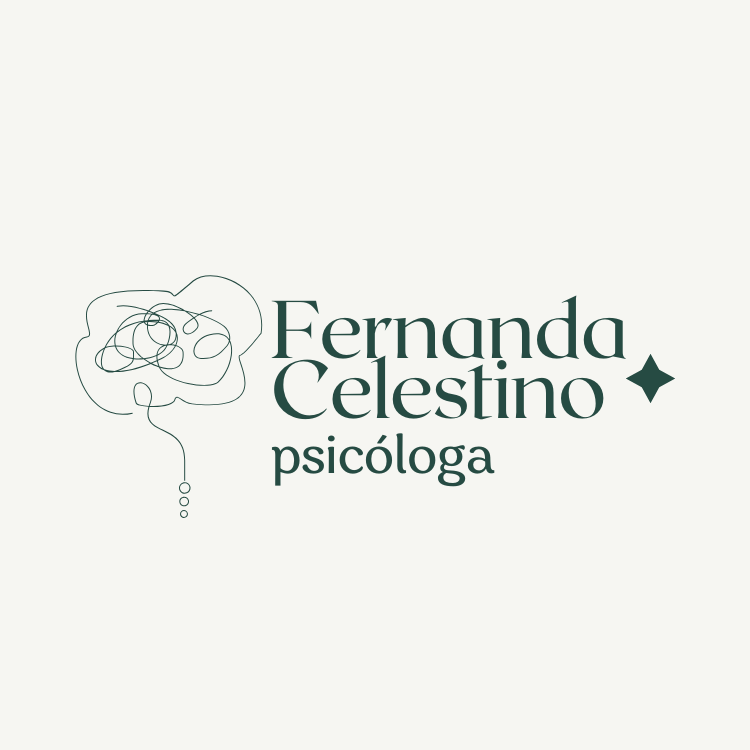
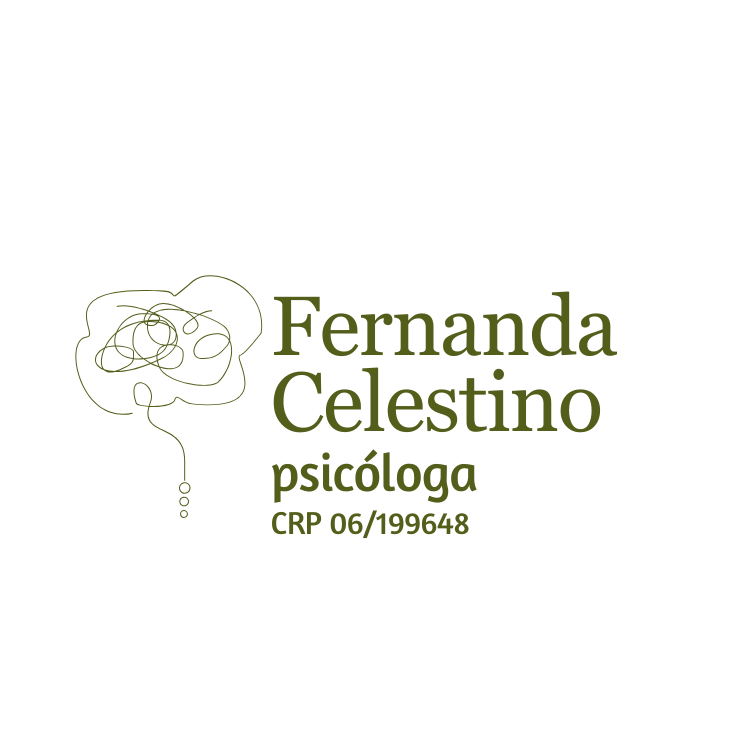
Adiciona seção Instagram e opção no menu para redes sociais

diff --git a/index.html b/index.html
@@ -9,6 +9,7 @@
   <link rel="stylesheet" href="https://cdnjs.cloudflare.com/ajax/libs/font-awesome/6.0.0-beta3/css/all.min.css" />
   <link rel="stylesheet" href="styles/header.css">
   <link rel="stylesheet" href="style.css">
+  <link href="https://fonts.googleapis.com/css2?family=Amaranth:wght@400;700&display=swap" rel="stylesheet">
   <title>Fernanda Celestino | Psicóloga</title>
 </head>
 <body>
@@ -18,7 +19,7 @@
   <div class="header-container">
     <!-- Logo e CRP -->
     <div class="header-logo">
-      <img src="images/Fernanda (1).png" alt="Psicologia" class="logo-img">
+      <img src="images/Fernanda.png" alt="Psicologia" class="logo-img">
     </div>
     <!-- Botão para abrir o menu (para dispositivos móveis) -->
     <button class="menu-toggle" aria-label="Abrir menu">&#9776;</button>
@@ -31,6 +32,8 @@
       <a href="#act">ACT</a>
       <a href="#sobre">Sobre mim</a>
       <a href="#faq">Perguntas frequentes</a>
+      <!-- Nova opção para redes sociais -->
+      <a href="#instagram">Rede sociais</a>
     </nav>
   </div>
 </header>
@@ -45,7 +48,7 @@
     </div>
     <!-- Foto de destaque -->
     <div class="intro-foto-cheia">
-      <img src="images/001.jpeg" alt="Psicóloga Fernanda Celestino" />
+      <img src="images/p001.jpeg" alt="Psicóloga Fernanda Celestino" />
     </div>
   </div>
 </section>
@@ -167,9 +170,11 @@ itens.forEach(item => {
   <section id="sobre" class="bloco-sobre bloco-azul">
   <div class="sobre-container">
     <div class="sobre-foto">
-      <img src="images/002.jpeg" alt="Psicóloga Fernanda Cristina Celestino">
+      <img src="images/p002.jpeg" alt="Psicóloga Fernanda Celestino">
     </div>
     <div class="sobre-conteudo">
+      <!-- Título centralizado -->
+      <h2 style="text-align: center; margin-bottom: 18px;">Quem sou eu!</h2>
       <p>
         Me chamo Fernanda Cristina Celestino e sou Psicóloga formada pela Universidade São Judas Tadeu (USJT) e sou formanda em Terapia de Aceitação e Compromisso e Terapia Cognitivo-Comportamental pela Ello+.
       </p>
@@ -211,6 +216,29 @@ itens.forEach(item => {
       </div>
     </section>
 
+  <!-- Nova seção: Instagram, inspirada na print -->
+<section id="instagram" class="bloco-instagram">
+  <div class="instagram-header">
+    <!-- Título com estilo de título do site -->
+    <h2 class="instagram-titulo">Instagram</h2>
+    <!-- @ com link para o perfil -->
+    <a class="instagram-user" href="https://www.instagram.com/psifernandacelestino/" target="_blank" rel="noopener">@psifernandacelestino</a>
+  </div>
+  <div class="instagram-galeria">
+    <!-- Imagem 1 -->
+    <a href="https://www.instagram.com/p/DLxQ_xapQm3/?img_index=1" target="_blank" rel="noopener">
+      <img src="images/ins01.jpeg" alt="Publicação Instagram 1">
+    </a>
+    <!-- Imagem 2 -->
+    <a href="https://www.instagram.com/p/DLujnQYNR6-/?img_index=1" target="_blank" rel="noopener">
+      <img src="images/ins02.jpeg" alt="Publicação Instagram 2">
+    </a>
+    <!-- Imagem 3 -->
+    <a href="https://www.instagram.com/p/DLtUNj2vZ9m/?img_index=1" target="_blank" rel="noopener">
+      <img src="images/ins03.jpeg" alt="Publicação Instagram 3">
+    </a>
+  </div>
+</section>
 
     <section id="faq" class="hero hero-faq">
       <h2>Perguntas frequentes</h2>
@@ -241,6 +269,8 @@ itens.forEach(item => {
         </div>
       </div>
     </section>
+
+
 
   <footer>
     <p>&copy; 2025 Fernanda Celestino | Psicóloga CRP 06/199648</p>

diff --git a/style.css b/style.css
@@ -1614,3 +1614,94 @@ form button[type="submit"]:hover {
     border-bottom: none;
   }
 }
+
+/* Fonte padrão para 
+ */
+body, p, li, a, button, input, textarea, label, .sobre-conteudo, .faq-answer, .act-card, .pilar-desc, .sintoma-card, .atendimento-card {
+  font-family: 'Amaranth', Arial, sans-serif;
+}
+
+/* Mantém fontes dos títulos como estão */
+h1, h2, h3, h4, h5, h6 {
+  /* Aqui permanece sua fonte de títulos, ex: */
+  font-family: 'Georgia', serif;
+}
+/* ...adicione ao final do seu style.css... */
+
+/* Seção Instagram inspirada na print */
+.bloco-instagram {
+  background: #f6f6f2 ;
+  padding: 48px 0 56px 0;
+  text-align: center;
+}
+
+.instagram-header {
+  display: flex;
+  flex-direction: column;
+  align-items: center;
+  margin-bottom: 28px;
+}
+
+.instagram-titulo {
+  font-family: 'Georgia', serif; /* Use a fonte dos títulos do seu site */
+  font-size: 2.1rem;
+  font-weight: bold;
+  margin-bottom: 8px;
+  color: #222;
+  letter-spacing: 1px;
+}
+
+.instagram-user {
+  font-family: 'Amaranth', Arial, sans-serif;
+  font-size: 1.18rem;
+  color: #222;
+  text-decoration: none;
+  font-style: italic;
+  margin-bottom: 12px;
+  transition: color 0.2s;
+}
+.instagram-user:hover {
+  color: #7d8d7d;
+  text-decoration: underline;
+}
+
+.instagram-galeria {
+  display: flex;
+  justify-content: center;
+  gap: 24px;
+  flex-wrap: wrap;
+}
+
+.instagram-galeria a {
+  display: block;
+  border-radius: 8px;
+  overflow: hidden;
+  box-shadow: 0 2px 12px rgba(125,141,125,0.10);
+  transition: transform 0.18s, box-shadow 0.18s;
+  background: #dee3c2;
+}
+
+.instagram-galeria a:hover {
+  transform: translateY(-4px) scale(1.03);
+  box-shadow: 0 6px 24px rgba(125,141,125,0.18);
+}
+
+.instagram-galeria img {
+  display: block;
+  width: 260px;
+  height: 260px;
+  object-fit: cover;
+  background: #dee3c2;
+}
+
+/* Responsivo */
+@media (max-width: 900px) {
+  .instagram-galeria {
+    gap: 14px;
+  }
+  .instagram-galeria img {
+    width: 98vw;
+    max-width: 340px;
+    height: auto;
+  }
+}
